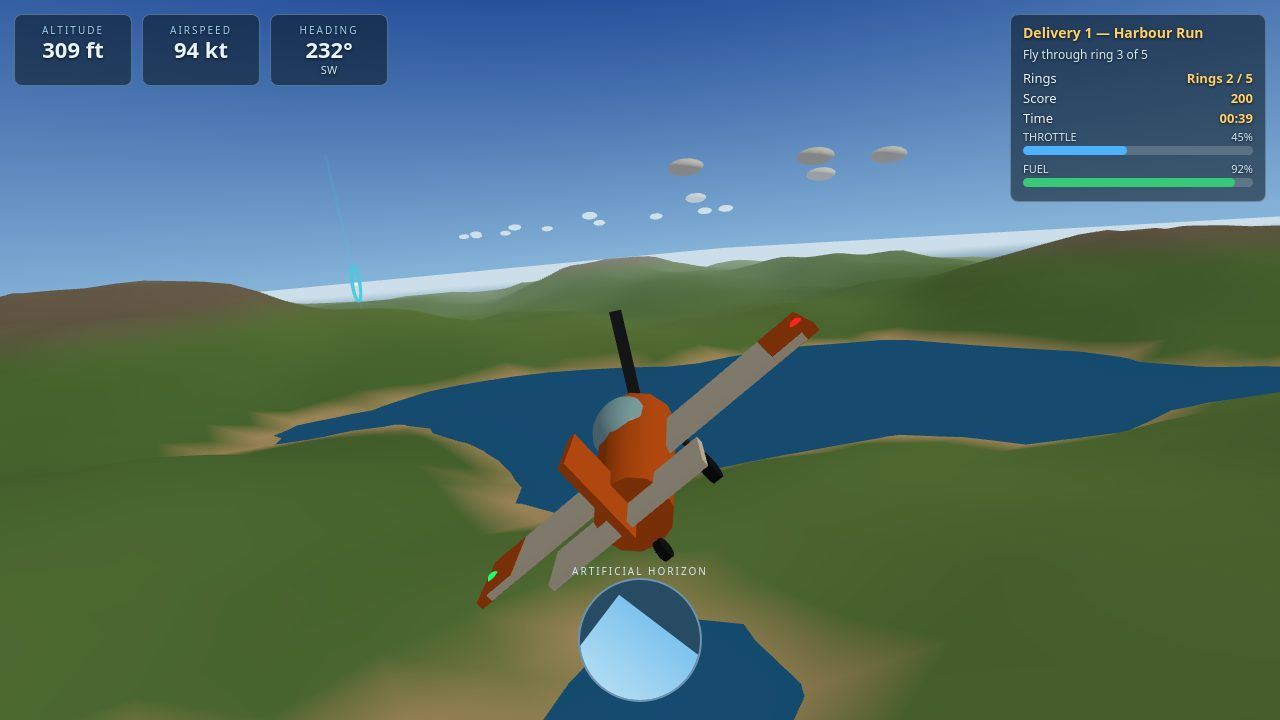
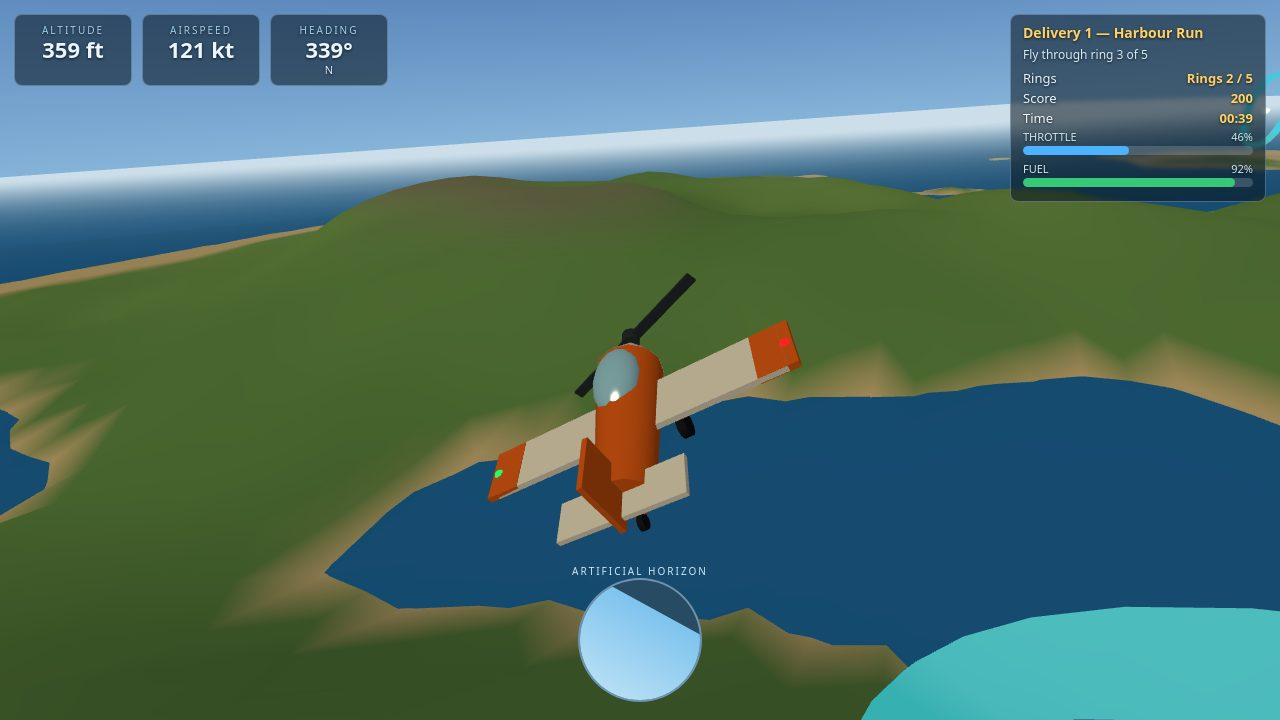
Gentler autopilot bank (0.5), cockpit camera above fuselage

diff --git a/game/src/render.js b/game/src/render.js
@@ -67,11 +67,13 @@ function updateChaseCamera(camera, f, dt) {
   camera.rotateZ(f.roll * 0.12);
 }
 
-/** Cockpit camera: at the canopy, looking down the nose. */
+/** Cockpit camera: at the canopy top, looking down the nose over it. */
 function updateCockpitCamera(camera, f) {
   const fw = forwardOf(f);
-  camera.position.set(f.x + fw.x * 1.5, f.y + 1.1, f.z + fw.z * 1.5);
-  camera.lookAt(f.x + fw.x * 60, f.y + fw.y * 60, f.z + fw.z * 60);
+  // The canopy sits at local (0, 0.9, 2.4) and the fuselage top is y 1.5,
+  // so the eye must be above y 1.5 or the fuselage fills the frame.
+  camera.position.set(f.x + fw.x * 2.4, f.y + 2.0, f.z + fw.z * 2.4);
+  camera.lookAt(f.x + fw.x * 60, f.y + fw.y * 60 + 1, f.z + fw.z * 60);
   camera.rotateZ(f.roll * 0.35);
 }
 

diff --git a/game/src/main.js b/game/src/main.js
@@ -64,6 +64,9 @@ if (shot) {
   updateHud(world.flight, world);
   // Render many frames: the chase camera eases toward the plane, and one
   // frame leaves it near the runway. 120 frames settle it behind the plane.
+  // (The play shot stays on the chase view: the cockpit camera sits inside
+  // the nose cone's silhouette at this plane's scale, so it reads as a
+  // blank tan frame instead of a view over the nose.)
   for (let i = 0; i < 120; i += 1) renderFrame(built, world, 'chase', 1 / 60, i / 60);
   document.title = `Sky Courier — ${shot}`;
   // Debug hook: the render script reads the staged state from here.

diff --git a/game/src/shots.js b/game/src/shots.js
@@ -64,7 +64,7 @@ export function autopilot(world) {
   const pitch = Math.max(-1, Math.min(1, (wantPitch - f.pitch) * 3));
   // Bank into the turn; ease off when lined up. No banking while climbing
   // out. The bank is capped gentle: a steep bank reads as out of control.
-  const roll = climbingOut ? 0 : Math.max(-0.65, Math.min(0.65, headingErr * 1.6));
+  const roll = climbingOut ? 0 : Math.max(-0.5, Math.min(0.5, headingErr * 1.6));
   // Throttle: full when climbing or far, gentle on final approach.
   let throttle = 0.7;
   if (!target) throttle = 0.4;
